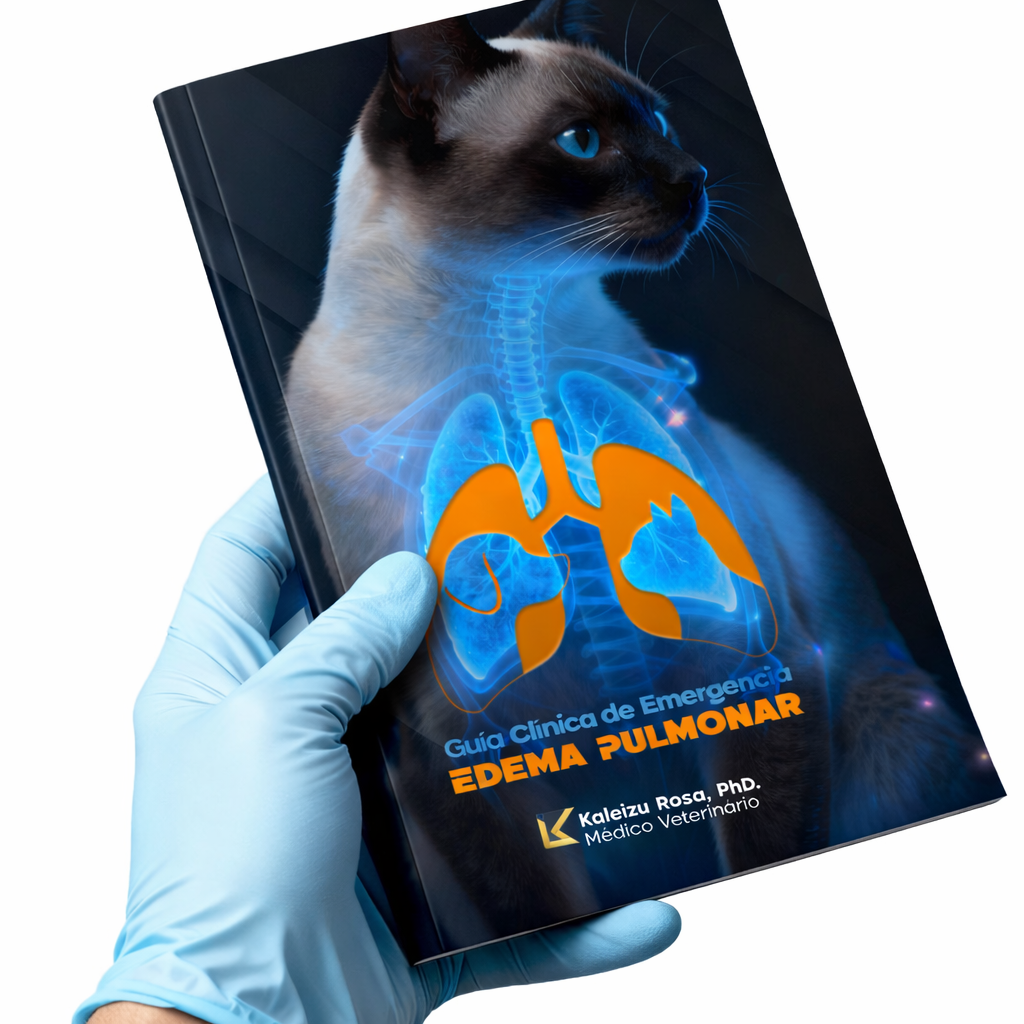
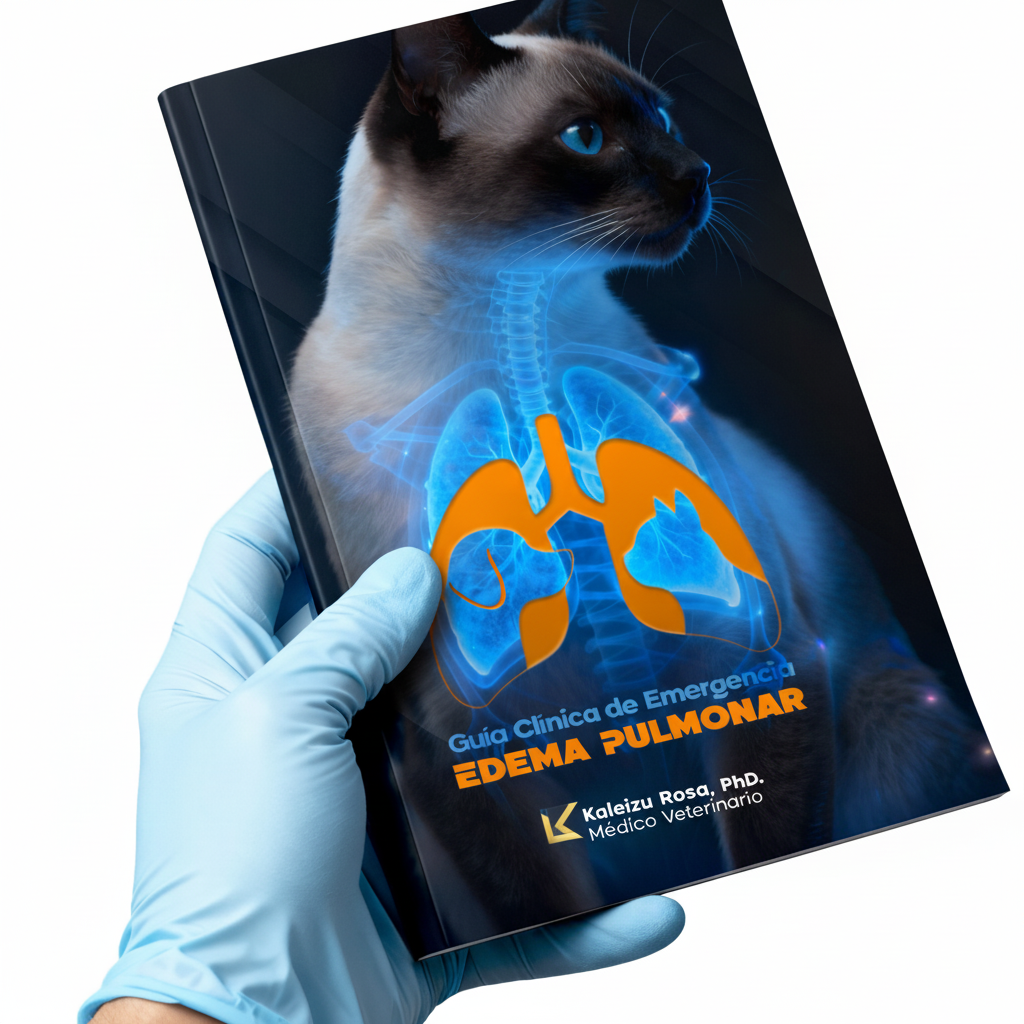
Changes

diff --git a/src/components/landing/HeroSection.tsx b/src/components/landing/HeroSection.tsx
@@ -63,12 +63,12 @@ const HeroSection = () => {
           </div>
 
           <div className="relative group animate-scale-in">
-            <div className="relative z-10 transform transition duration-500 group-hover:scale-105 animate-float">
+            <div className="relative z-10 transform transition duration-500 group-hover:scale-105 animate-float mix-blend-lighten">
               <img
                 src={ebookCover}
                 alt="Guía Clínica de Emergencia - Edema Pulmonar"
-                className="mx-auto max-w-[450px] w-full mix-blend-multiply dark:mix-blend-screen drop-shadow-2xl"
-                style={{ filter: 'drop-shadow(0 25px 50px rgba(0,0,0,0.5))' }}
+                className="mx-auto max-w-[450px] w-full"
+                style={{ filter: 'drop-shadow(0 25px 50px rgba(0,0,0,0.3))' }}
               />
             </div>
           </div>
